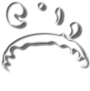
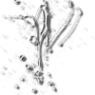
Some tweaking of the splatter particle system

diff --git a/Duologue/ParticleEffects/EnemySplatterSystem.cs b/Duologue/ParticleEffects/EnemySplatterSystem.cs
@@ -38,8 +38,6 @@ namespace Duologue.ParticleEffects
             minInitialSpeed = 10;
             maxInitialSpeed = 25;
 
-            // doesn't matter what these values are set to, acceleration is tweaked in
-            // the override of InitializeParticle.
             minAcceleration = 1;
             maxAcceleration = 10;
 
@@ -47,14 +45,14 @@ namespace Duologue.ParticleEffects
             minLifetime = .5f;
             maxLifetime = 1.0f;
 
-            minScale = 0.5f;
+            minScale = 0.25f;
             maxScale = 2.0f;
 
             minNumParticles = 10;
             maxNumParticles = 15;
 
-            minRotationSpeed = 0;
-            maxRotationSpeed = 0;
+            minRotationSpeed = MathHelper.PiOver4 / 4f; ;
+            maxRotationSpeed = MathHelper.PiOver4 / 2f ;
 
             // additive blending is very good at creating fiery effects.
             spriteBlendMode = RenderSpriteBlendMode.AlphaBlend;
